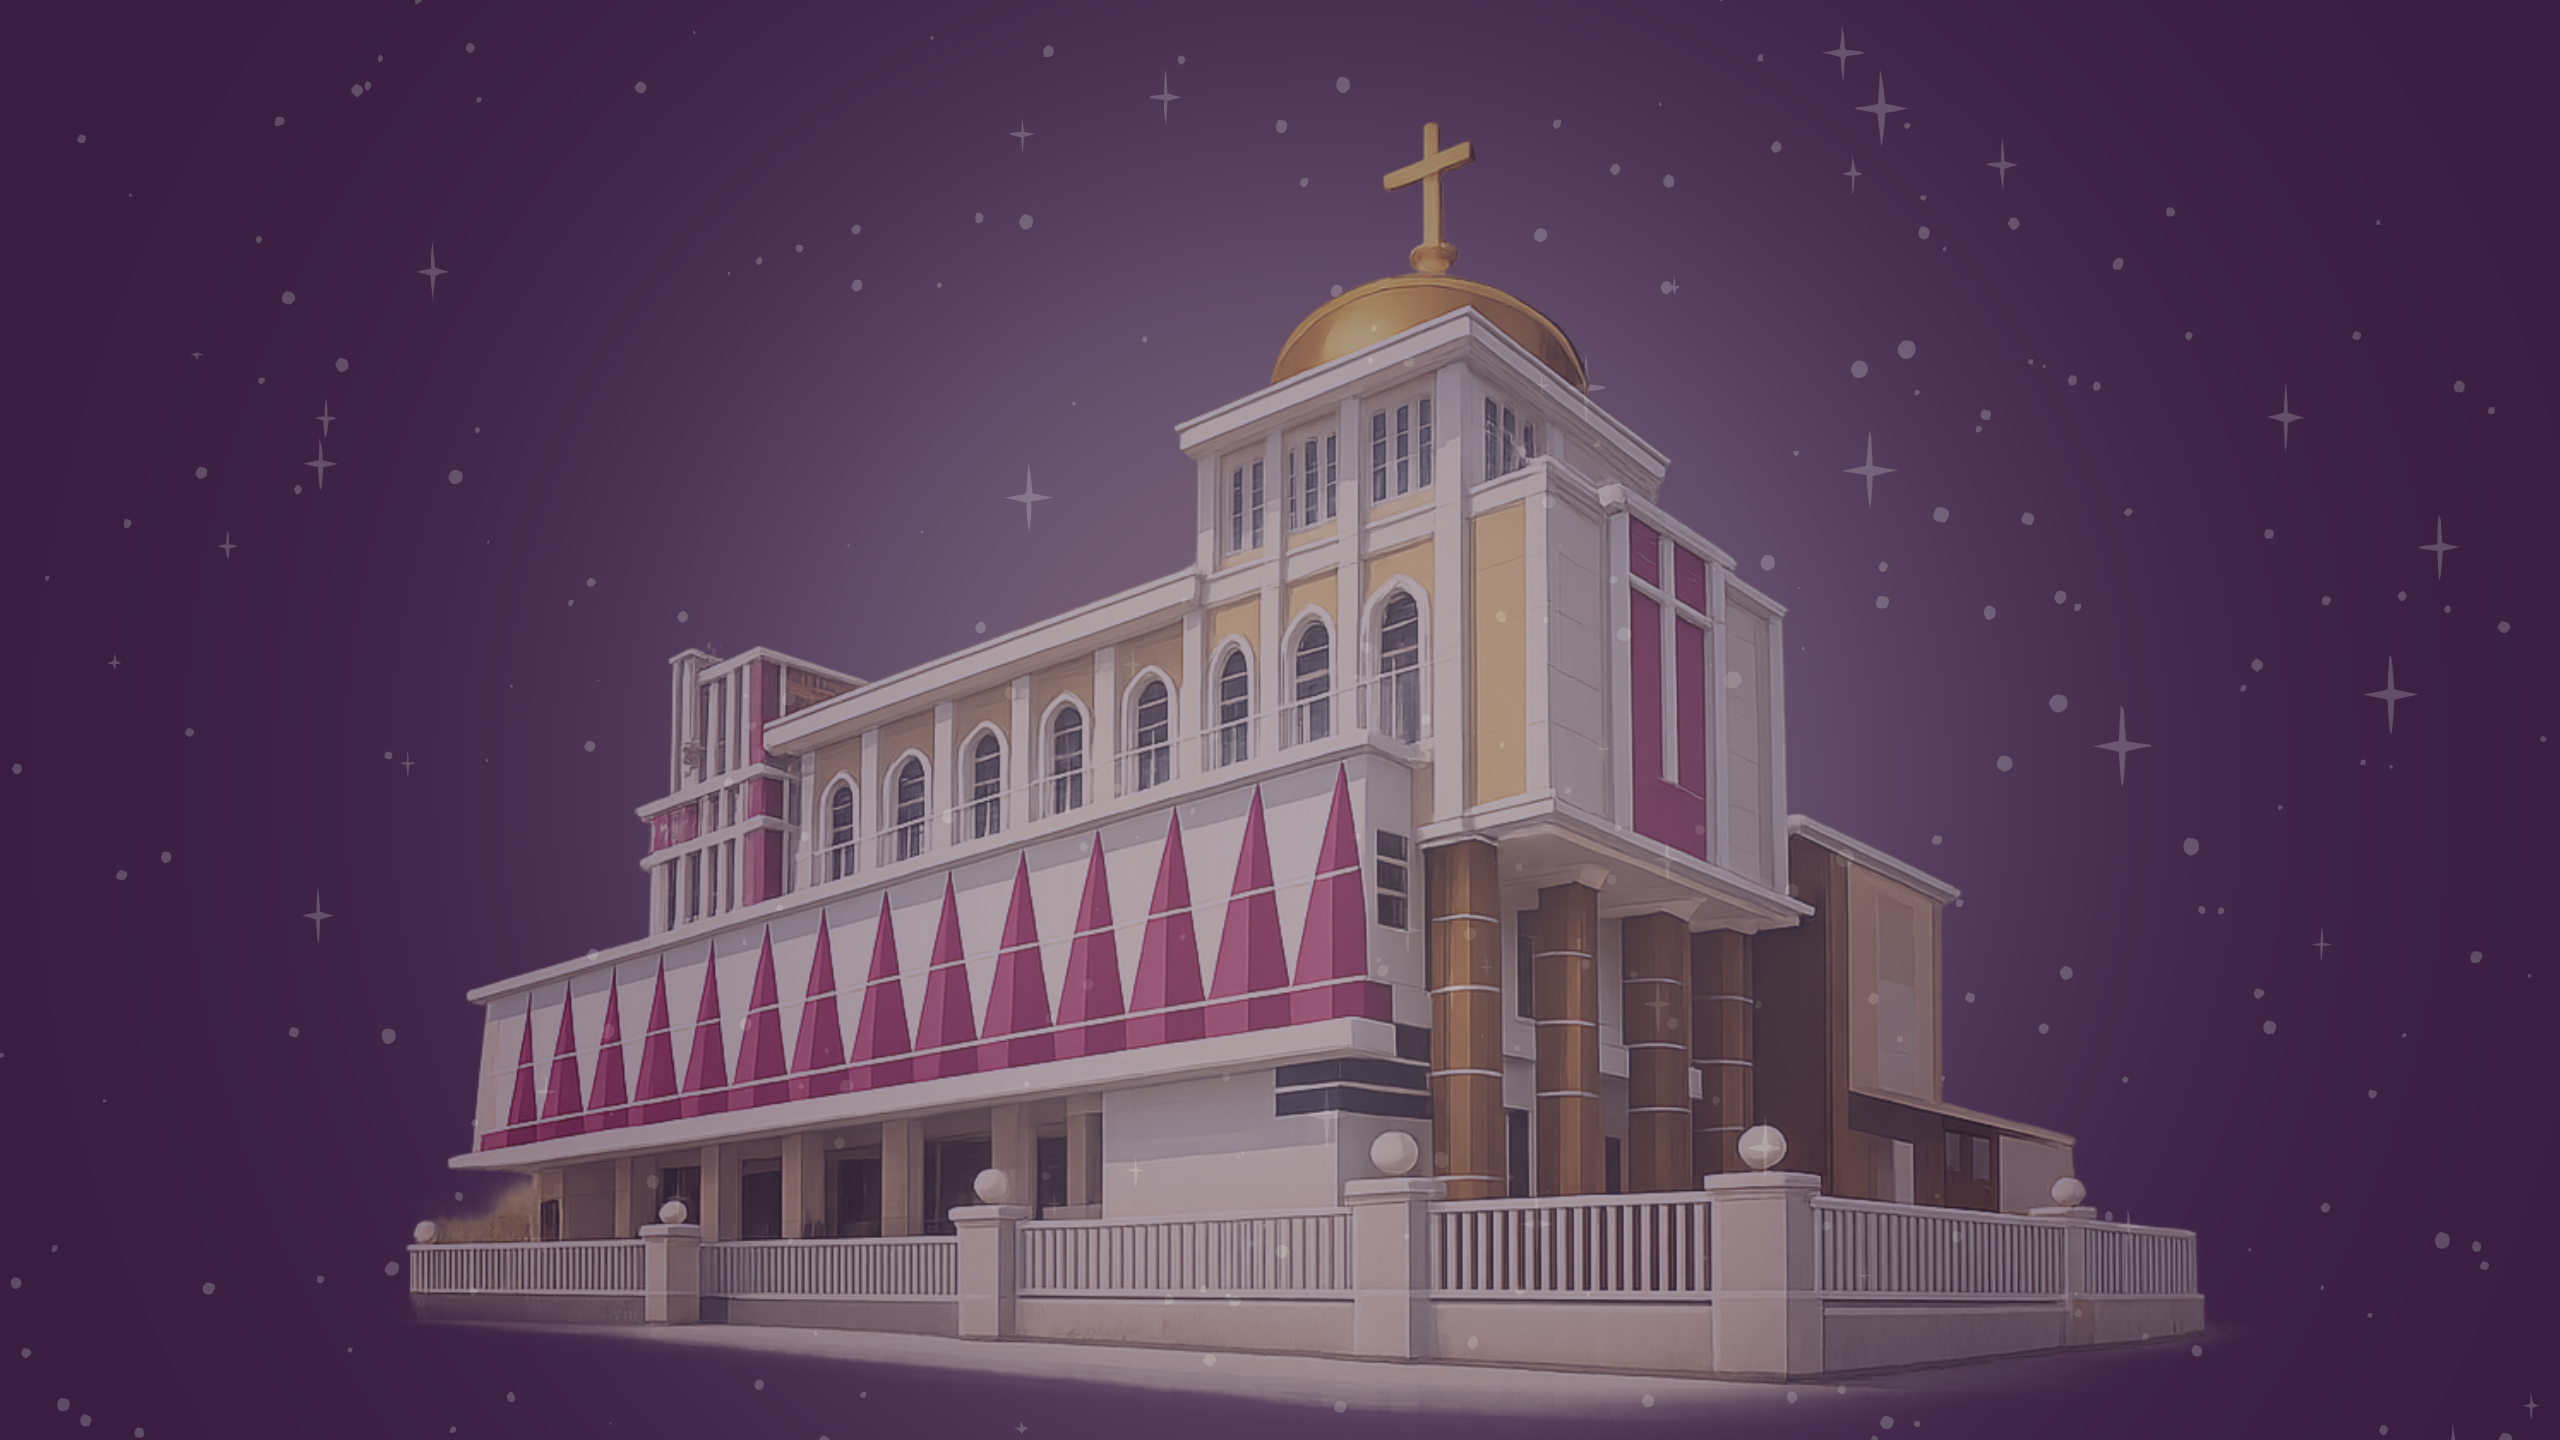
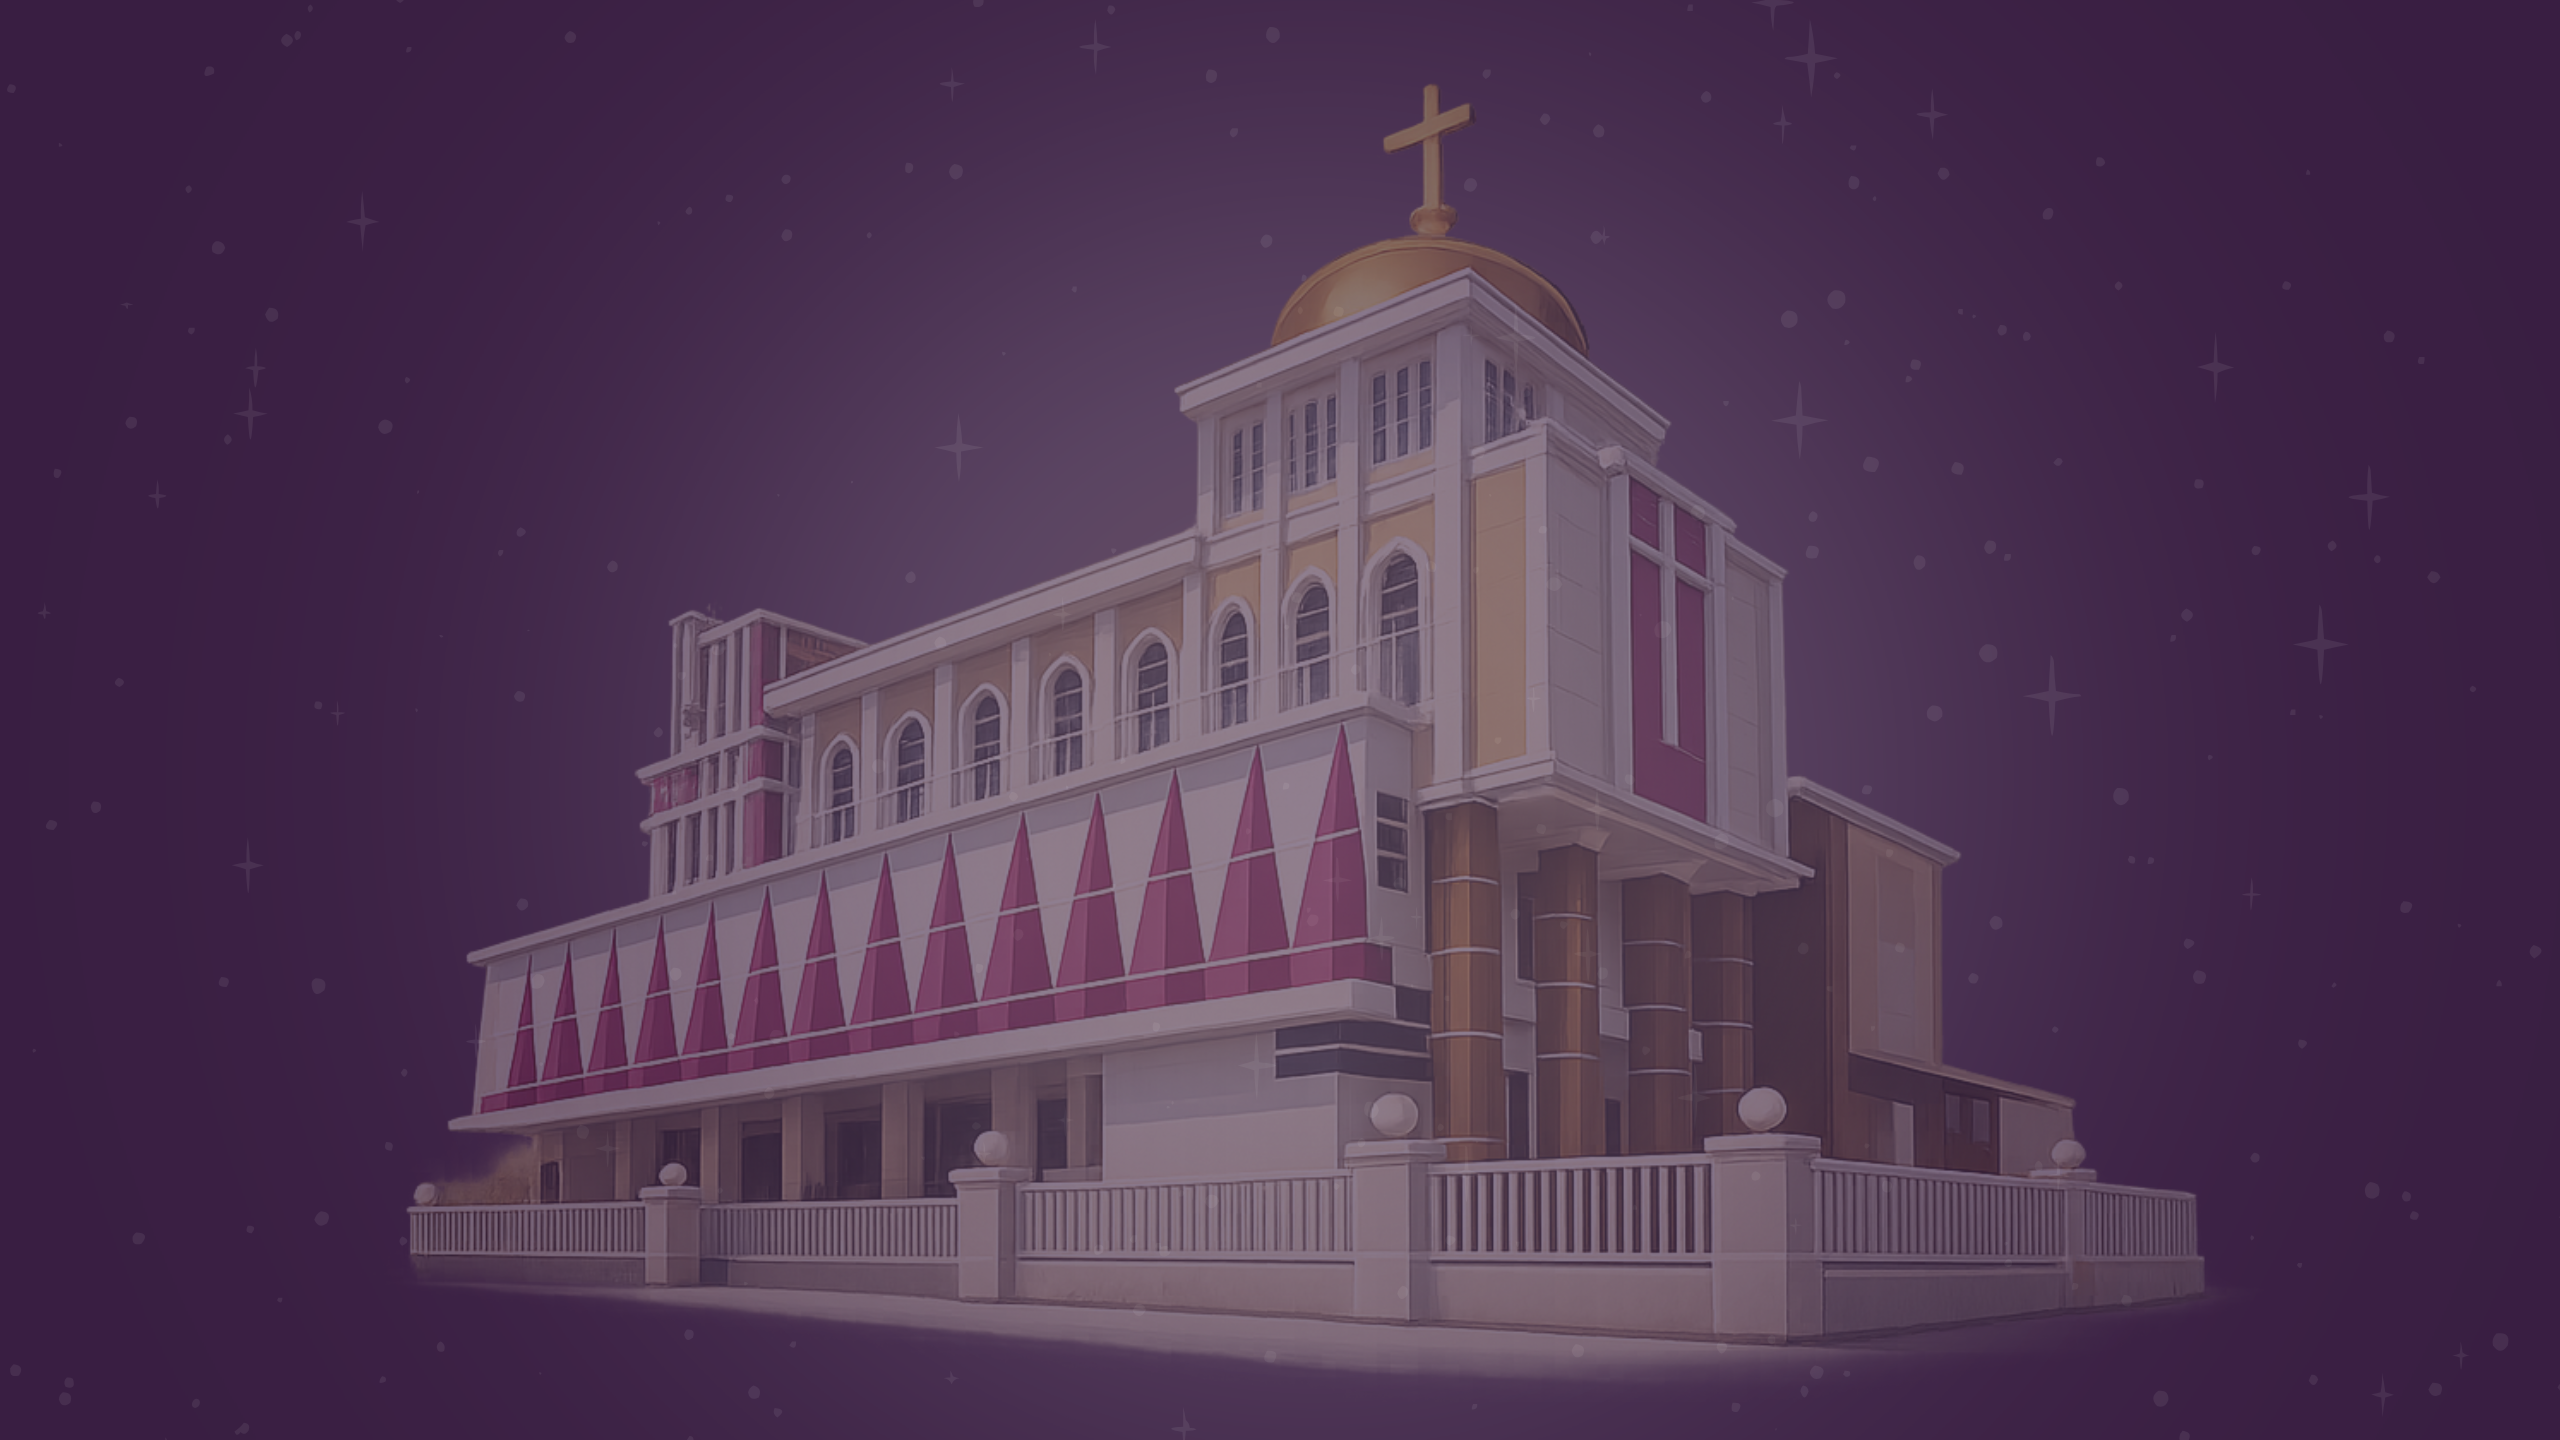
perbaiki kotak warta

diff --git a/assets/css/style-visimisi.css b/assets/css/style-visimisi.css
@@ -7,32 +7,35 @@
     position: relative;
 }
 
+/* Diubah menjadi warna putih agar terbaca di atas background foto */
 .main-title-aesthetic {
     font-family: 'Playfair Display', serif;
-    /* FIX: Mengubah batas minimum dari 3rem menjadi 2rem agar pas di layar HP */
     font-size: clamp(2rem, 6vw, 4.5rem);
     font-weight: 900;
-    color: #000000;
+    color: #ffffff !important; 
     letter-spacing: -1px;
     line-height: 1.1;
+    text-shadow: 2px 2px 8px rgba(0,0,0,0.7); /* Tambahan shadow agar teks menonjol */
 }
 
+/* Teks Sub-judul diubah ke putih */
 .sub-title-aesthetic {
     font-family: 'Plus Jakarta Sans', sans-serif;
     font-size: clamp(1rem, 2vw, 1.25rem);
     font-weight: 600;
-    color: #6f42c1;
+    color: #ffffff !important; 
     letter-spacing: 0.5px;
+    text-shadow: 1px 1px 4px rgba(0,0,0,0.7);
 }
 
 .church-highlight {
-    color: #6f42c1;
+    color: #ffffff; 
     font-weight: 800;
     position: relative;
     display: inline-block;
 }
 
-/* Ornamen Garis Minimalis di Bawah Judul */
+/* Ornamen Garis Minimalis di Bawah Judul - Diubah ke putih */
 .premium-divider {
     display: flex;
     align-items: center;
@@ -43,18 +46,18 @@
 .premium-divider .line {
     height: 1px;
     width: 80px;
-    background: linear-gradient(90deg, transparent, #6f42c1, transparent);
+    background: linear-gradient(90deg, transparent, #ffffff, transparent);
 }
 .premium-divider .dot {
     width: 6px;
     height: 6px;
-    background-color: #6f42c1;
+    background-color: #ffffff;
     border-radius: 50%;
     margin: 0 10px;
-    box-shadow: 0 0 8px #6f42c1;
+    box-shadow: 0 0 8px rgba(255, 255, 255, 0.5);
 }
 
-/* Styling List Misi */
+/* Styling List Misi (Tetap Gelap karena berada di dalam Glass Card Putih) */
 .mission-list {
     list-style: none;
     padding-left: 0;
@@ -64,7 +67,7 @@
     padding-left: 2.5rem;
     margin-bottom: 1.5rem;
     font-weight: 500;
-    color: #334155;
+    color: #333333; /* Warna gelap agar terbaca di atas kartu putih */
     font-size: 1.05rem;
     transition: transform 0.2s ease;
 }
@@ -81,10 +84,9 @@
 
 .visi-text-callout {
     font-family: 'Playfair Display', serif;
-    /* FIX: Menyesuaikan minimum clamp agar teks isi visi proporsional di HP */
     font-size: clamp(1.35rem, 3vw, 2.4rem);
     line-height: 1.5;
-    color: #0f172a;
+    color: #333333; /* Warna gelap agar terbaca di atas kartu putih */
 }
 
 /* ========================================================
@@ -105,19 +107,18 @@
 /* Tampilan Khusus Mobile / HP (Menumpuk Vertikal secara Rapi) */
 @media (max-width: 991.98px) {
     .page-header-premium {
-        padding-top: 4rem; /* Mengurangi ruang kosong atas di HP */
+        padding-top: 4rem; 
         padding-bottom: 2rem;
     }
     
-    /* Memberikan jarak pemisah yang aman antara blok Visi dan blok Misi saat menumpuk */
     .divider-vertical {
         margin-bottom: 3rem;
         padding-bottom: 2.5rem;
-        border-bottom: 1px dashed rgba(111, 66, 193, 0.2); /* Mengubah garis vertikal menjadi garis pembatas horizontal di HP */
+        border-bottom: 1px dashed rgba(111, 66, 193, 0.2); 
     }
     
     .mission-list li {
-        padding-left: 2rem; /* Sedikit menghemat ruang horizontal di HP */
+        padding-left: 2rem; 
         font-size: 1rem;
     }
 }

diff --git a/assets/css/style_warta.css b/assets/css/style_warta.css
@@ -1,5 +1,5 @@
 /* =========================================
-   STYLE DASAR & KOMKOMPENEN UMUM
+   STYLE DASAR & KOMPONEN UMUM
 ========================================= */
 body { 
     font-family: 'Plus Jakarta Sans', sans-serif; 
@@ -34,6 +34,13 @@ body {
     border: 1px solid rgba(111, 66, 193, 0.15); 
     border-radius: 20px; 
     box-shadow: 0 8px 32px rgba(111, 66, 193, 0.08); 
+}
+
+/* KELAS BARU: Untuk mengecilkan & menengahkan kotak autentikasi Warta */
+.auth-box {
+    max-width: 500px !important;
+    margin-left: auto !important;
+    margin-right: auto !important;
 }
 
 .btn-purple { 
@@ -123,52 +130,33 @@ body {
 /* =========================================
    UTILITY CLASSES (WARNA, BADGE, TEXT)
 ========================================= */
-.bg-purple-soft { 
-    background-color: rgba(111, 66, 193, 0.1); 
-}
-
-.text-purple { 
-    color: #6f42c1 !important; 
-}
-
-.label-badge-purple { 
-    letter-spacing: 2px; 
-    background-color: rgba(111, 66, 193, 0.1); 
-    color: #6f42c1; 
-}
-
-.divider-line { 
-    opacity: 0.1; 
-}
-
-.wrapper-bottom-card { 
-    border-radius: 0 0 20px 20px; 
-}
-
-.wrapper-download-btn { 
-    border-color: rgba(0,0,0,0.05) !important; 
-}
+.bg-purple-soft { background-color: rgba(111, 66, 193, 0.1); }
+.text-purple { color: #6f42c1 !important; }
+.label-badge-purple { letter-spacing: 2px; background-color: rgba(111, 66, 193, 0.1); color: #6f42c1; }
+.divider-line { opacity: 0.1; }
+.wrapper-bottom-card { border-radius: 0 0 20px 20px; }
+.wrapper-download-btn { border-color: rgba(0,0,0,0.05) !important; }
 
 /* =========================================
    OPTIMISASI KHUSUS RESPONSIVE MOBILE (NEW)
 ========================================= */
 @media (max-width: 767.98px) {
     .page-header-premium {
-        padding-top: 4rem; /* Mengurangi padding kosong atas di smartphone */
+        padding-top: 4rem; 
         padding-bottom: 2rem;
     }
 
     .main-title-aesthetic, .head-title-warta {
-        font-size: clamp(1.8rem, 6vw, 2.5rem) !important; /* Batas font proposional di HP */
+        font-size: clamp(1.8rem, 6vw, 2.5rem) !important; 
     }
 
     .glass-card {
-        padding: 1.25rem !important; /* Mengoptimalkan ruang padding dalam kartu agar teks luas */
+        padding: 1.25rem !important; 
         border-radius: 16px;
     }
 
     .khadim-img {
-        width: 140px; /* Skala ulang gambar khadim agar seimbang di layar portrait */
+        width: 140px; 
         height: 190px;
         border-width: 4px;
     }
@@ -178,10 +166,9 @@ body {
     }
     
     .warta-cover-wrapper {
-        height: 160px; /* Penyesuaian tinggi cover desain majalah di HP */
+        height: 160px; 
     }
 
-    /* Penataan spasi vertikal antar kolom grid bootstrap saat menumpuk */
     .row.g-4 > [class*='col-'] {
         margin-bottom: 0.5rem;
     }

diff --git a/navbar.php b/navbar.php
@@ -16,6 +16,21 @@ if ($_SERVER['HTTP_HOST'] == 'localhost:8081' || $_SERVER['HTTP_HOST'] == 'local
 } else {
     $base_url = '/';
 }
+
+/* =========================================================
+   LOGIKA NAVBAR DINAMIS (Transparan vs Solid)
+   ========================================================= */
+$current_page = basename($_SERVER['PHP_SELF']);
+// Masukkan halaman yang ingin navbarnya transparan di dalam array ini
+$transparent_pages = ['index.php', 'visi-misi.php']; 
+
+if (in_array($current_page, $transparent_pages)) {
+    $nav_bg = 'transparent';
+    $nav_shadow = ''; // Hilangkan bayangan saat transparan
+} else {
+    $nav_bg = '#6f42c1'; // Kembali ke ungu solid untuk halaman navigasi dll
+    $nav_shadow = 'shadow-sm'; // Tambahkan bayangan
+}
 ?>
 
 <style>
@@ -36,7 +51,6 @@ if ($_SERVER['HTTP_HOST'] == 'localhost:8081' || $_SERVER['HTTP_HOST'] == 'local
    PENTING: Khusus untuk Tampilan Mobile (Max 991px)
    ========================================================= */
 @media (max-width: 991px) {
-    /* 1. Pengaturan Container agar item tetap sejajar 1 baris */
     .navbar .container {
         display: flex;
         flex-wrap: nowrap !important;
@@ -46,7 +60,6 @@ if ($_SERVER['HTTP_HOST'] == 'localhost:8081' || $_SERVER['HTTP_HOST'] == 'local
         padding-right: 10px;
     }
 
-    /* 2. Logo dan Brand */
     .navbar-brand { 
         display: flex; 
         align-items: center; 
@@ -69,7 +82,6 @@ if ($_SERVER['HTTP_HOST'] == 'localhost:8081' || $_SERVER['HTTP_HOST'] == 'local
         text-overflow: ellipsis; 
     }
 
-    /* 3. Tombol Toggle (Hamburger) */
     .navbar-toggler {
         flex-shrink: 0;
         margin-left: auto;
@@ -78,7 +90,6 @@ if ($_SERVER['HTTP_HOST'] == 'localhost:8081' || $_SERVER['HTTP_HOST'] == 'local
         border: none;
     }
 
-    /* 4. KONTEN MENU POP-UP */
     .navbar-collapse {
         position: absolute;
         top: 100%;
@@ -102,7 +113,6 @@ if ($_SERVER['HTTP_HOST'] == 'localhost:8081' || $_SERVER['HTTP_HOST'] == 'local
         transform: translateY(5px);
     }
 
-    /* 5. List Menu Mobile */
     .navbar-nav {
         display: flex;
         flex-direction: column;
@@ -124,7 +134,6 @@ if ($_SERVER['HTTP_HOST'] == 'localhost:8081' || $_SERVER['HTTP_HOST'] == 'local
 
     .navbar-nav .nav-link:hover { background-color: rgba(111, 66, 193, 0.1); }
 
-    /* 6. Dropdown Mobile */
     .dropdown-menu {
         position: static !important;
         float: none;
@@ -137,7 +146,6 @@ if ($_SERVER['HTTP_HOST'] == 'localhost:8081' || $_SERVER['HTTP_HOST'] == 'local
 
     .dropdown-item { color: #555 !important; padding: 8px 15px !important; }
 
-    /* 7. Tombol Admin/Login */
     .navbar-nav .nav-item.ms-lg-3 {
         width: 100%;
         margin-top: 15px !important;
@@ -150,10 +158,19 @@ if ($_SERVER['HTTP_HOST'] == 'localhost:8081' || $_SERVER['HTTP_HOST'] == 'local
         width: 100% !important; 
         justify-content: center !important; 
     }
-} /* FIX: Menutup tag @media mobile dengan benar */
+
+    /* Memaksa tombol login/admin menjadi ungu pekat di tampilan mobile */
+    .navbar-nav .btn-outline-light,
+    .navbar-nav .btn-light {
+        background-color: #6f42c1 !important;
+        color: #ffffff !important;
+        border-color: #6f42c1 !important;
+    }
+}
 </style>
 
-<nav class="navbar navbar-expand-lg navbar-dark sticky-top shadow-sm" style="background-color: #6f42c1;">
+<!-- Navbar menerapkan variabel PHP untuk background dan shadow -->
+<nav class="navbar navbar-expand-lg navbar-dark sticky-top <?php echo $nav_shadow; ?>" style="background-color: <?php echo $nav_bg; ?>; transition: background-color 0.3s ease;">
     <div class="container">
         <a class="navbar-brand d-flex align-items-center fw-bold" href="<?php echo $root_prefix; ?>index.php">
             <img src="<?php echo $root_prefix; ?>assets/images/logo_gereja_imanuel.png" alt="Logo GMIM" width="55" height="55" class="me-3">

diff --git a/warta-jemaat.php b/warta-jemaat.php
@@ -86,7 +86,7 @@ if ($detail_tgl && $akses_warta) {
     <?php if (!$akses_warta): ?>
         <!-- Tampilan Halaman Terkunci (Verifikasi Kode) -->
         <div class="row justify-content-center" data-aos="zoom-in" data-aos-delay="300">
-            <div class="col-md-5 glass-card p-5 text-center mt-2">
+            <div class="col-md-5 glass-card auth-box p-5 text-center mt-2">
                 <i class="bi bi-shield-lock text-purple fs-1 mb-3 d-block"></i>
                 <h5 class="fw-bold my-3">Area Terbatas Jemaat</h5>
                 <p class="text-muted small mb-4">Warta Jemaat bersifat internal. Silakan masukkan kode akses jemaat yang dapat diperoleh melalui panduan website Imanuel Bahu atau melalui pelayan khusus.</p>

diff --git a/visi-misi.php b/visi-misi.php
@@ -16,12 +16,6 @@
 </head>
 <body>
 
-<div class="digital-grid"></div>
-<div class="aurora-container">
-    <div class="aurora-blob blob-blue"></div>
-    <div class="aurora-blob blob-soft"></div>
-</div>
-
 <?php 
 include 'koneksi.php'; 
 include 'navbar.php'; 
